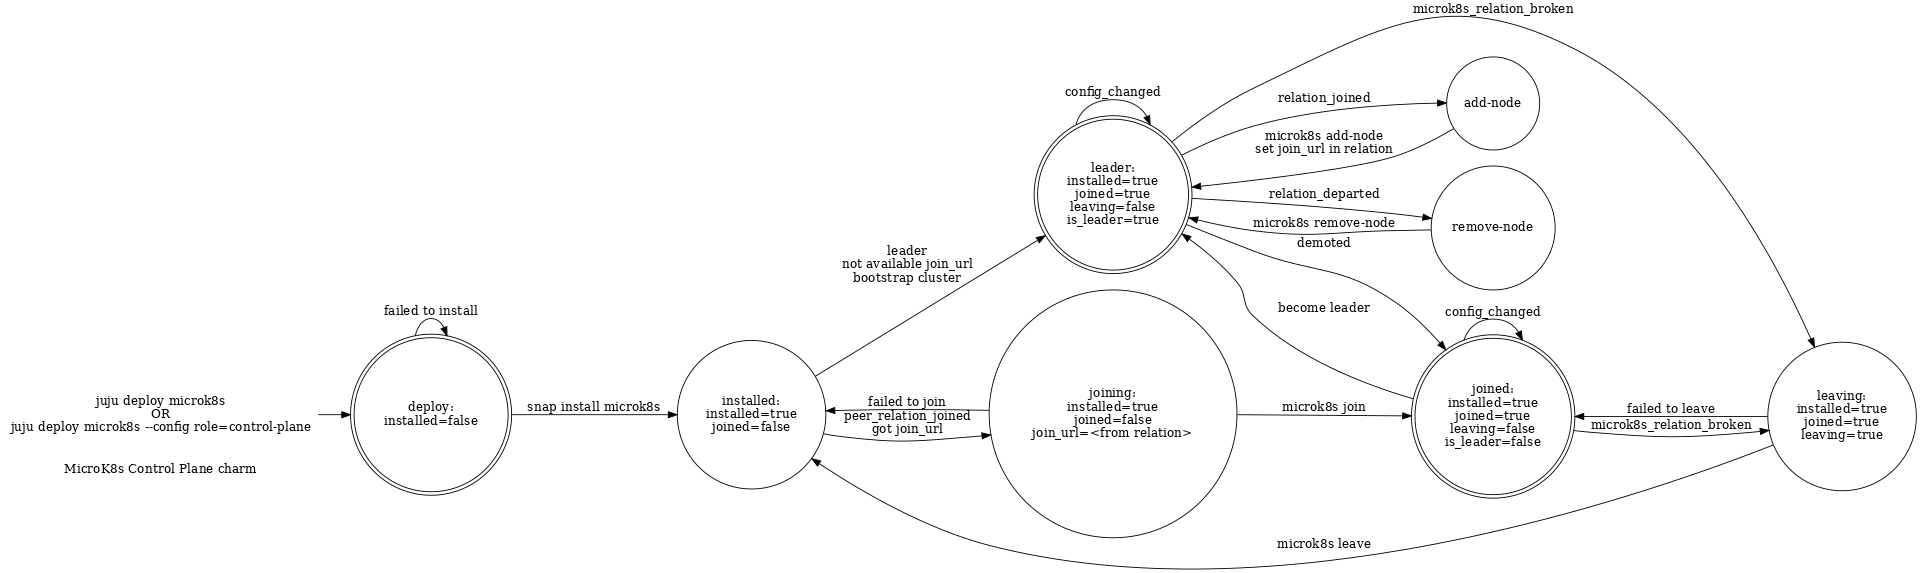
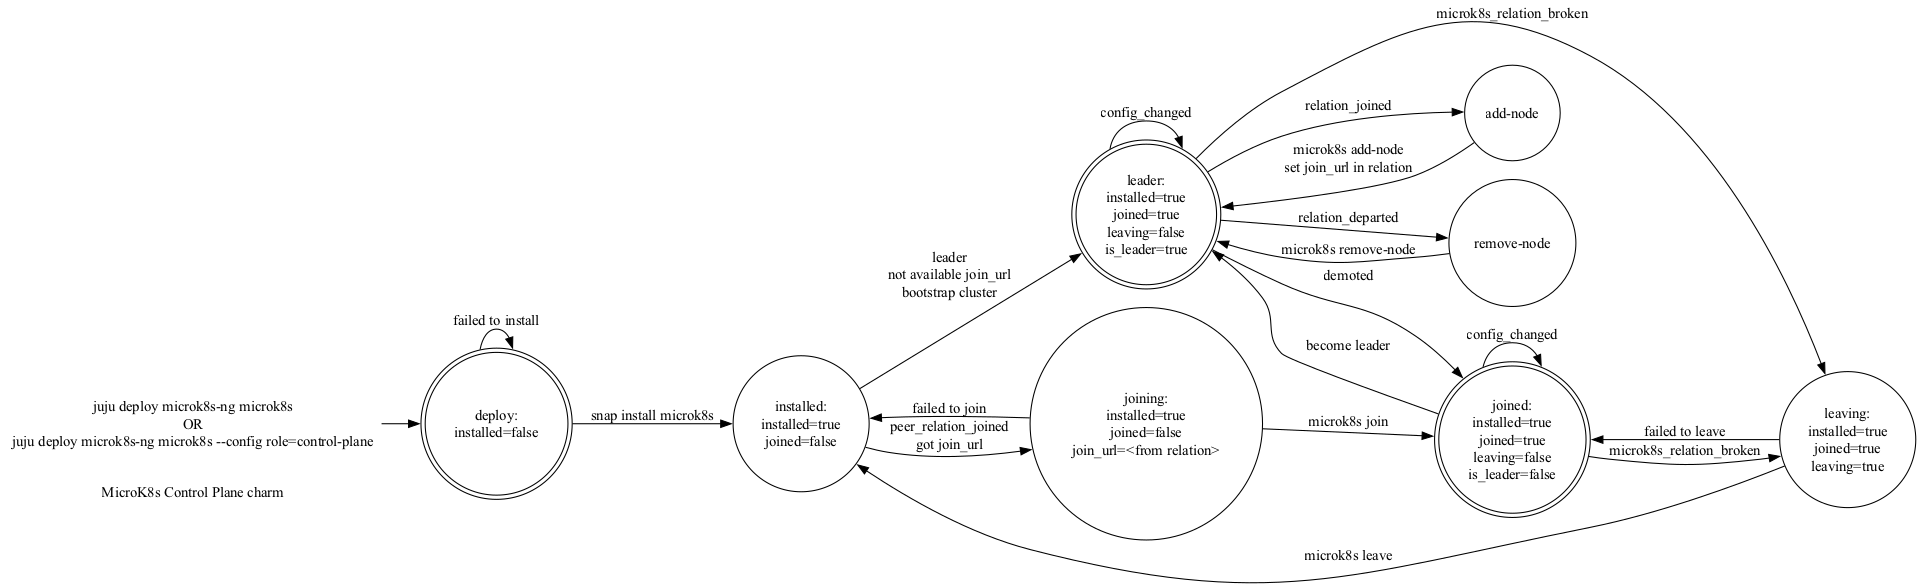
Rename charm

diff --git a/docs/fsm/graphs.py b/docs/fsm/graphs.py
@@ -15,7 +15,10 @@ cp.attr(rankdir="LR", size="20,30")
 
 cp.attr("node", shape="none")
 cp.node("text1", "MicroK8s Control Plane charm")
-cp.node("", "juju deploy microk8s\nOR\njuju deploy microk8s --config role=control-plane")
+cp.node(
+    "",
+    "juju deploy microk8s-ng microk8s\nOR\njuju deploy microk8s-ng microk8s --config role=control-plane",
+)
 
 cp.attr("node", shape="doublecircle")
 cp.node("deploy", "deploy:\ninstalled=false")
@@ -66,7 +69,7 @@ w.attr(rankdir="LR", size="20,30")
 
 w.attr("node", shape="none")
 w.node("text1", "MicroK8s Worker charm")
-w.node("", "juju deploy microk8s --config role=worker")
+w.node("", "juju deploy microk8s-ng microk8s-worker --config role=worker")
 
 w.attr("node", shape="doublecircle")
 w.node("deploy", "deploy:\ninstalled=false")

diff --git a/tests/integration/config.py b/tests/integration/config.py
@@ -5,13 +5,13 @@ import json
 import os
 
 # MK8S_CHARM is the charm to deploy. Supported values:
-#   - 'ch:microk8s'             <-- install charm 'microk8s' from CharmHub
-#   - './microk8s.charm'        <-- install from local path
+#   - 'ch:microk8s-ng'          <-- install charm 'microk8s-ng' from CharmHub
+#   - './microk8s-ng.charm'     <-- install from local path
 #   - 'build'                   <-- build charm while testing
 MK8S_CHARM = os.getenv("MK8S_CHARM", "build")
 
 # MK8S_CHARM_CHANNEL is the CharmHub channel to install from.
-#   - 'edge'                    <-- identical to 'juju deploy microk8s --channel edge'
+#   - 'edge'                    <-- identical to 'juju deploy microk8s-ng --channel edge'
 #   - ''                        <-- when installing from local charm, set to empty
 MK8S_CHARM_CHANNEL = os.getenv("MK8S_CHARM_CHANNEL", "")
 

diff --git a/tests/unit/test_charm.py b/tests/unit/test_charm.py
@@ -321,7 +321,7 @@ def test_relation_kubernetes_info(e: Environment, role: str, is_leader: bool, ha
     rel_id = e.harness.add_relation("kubernetes-info", "ceph-csi")
     e.harness.add_relation_unit(rel_id, "ceph-csi/0")
 
-    rel_data = e.harness.get_relation_data(rel_id, "microk8s")
+    rel_data = e.harness.get_relation_data(rel_id, e.harness.charm.app.name)
 
     # the leader control plane node sets relation data
     if role != "worker" and is_leader:

diff --git a/README.md b/README.md
@@ -1,4 +1,4 @@
-# Anti-deprecation notice
+# Continued support notice
 
 This charm is a fork of the original charm-microk8s repo and publishes under the charm name ```microk8s-ng```. The objective of this fork is add supported versions of microk8s to it to act as a medium-term bridge for people/orgs who have not migrated to the newer ```k8s``` charm.
 
@@ -24,11 +24,11 @@ This charm deploys and manages a MicroK8s cluster. It can handle scaling up and 
 Make sure to account for extra requirements depending on the workload you are planning to deploy.
 
 ```bash
-juju deploy microk8s --constraints 'cores=2 mem=4G'
+juju deploy microk8s-ng --constraints 'cores=2 mem=4G'
 ```
 
 Alternatively, to specify the MicroK8s version to install, you can use:
 
 ```bash
-juju deploy microk8s --constraints 'cores=2 mem=4G' --config channel=1.35/stable
+juju deploy microk8s-ng --constraints 'cores=2 mem=4G' --config channel=1.35/stable
 ```

diff --git a/docs/architecture.md b/docs/architecture.md
@@ -4,8 +4,8 @@
 
 ```bash
 # deploy 3 control plane nodes, 3 worker nodes
-juju deploy microk8s -n 3
-juju deploy microk8s microk8s-worker -n 3 --config role=worker
+juju deploy microk8s-ng microk8s -n 3
+juju deploy microk8s-ng microk8s-worker -n 3 --config role=worker
 
 # connect worker nodes to the control plane
 juju integrate microk8s:microk8s-provides microk8s-worker:microk8s

diff --git a/docs/development.md b/docs/development.md
@@ -33,11 +33,11 @@ The default configuration for the integration tests is to build the charm and ru
 When making local changes and deploying the charm:
 
 ```bash
-# build the charm (microk8s_ubuntu-22.04-amd64_ubuntu-24.04-amd64_ubuntu-26.04-amd64.charm)
+# build the charm (microk8s-ng_ubuntu-22.04-amd64_ubuntu-24.04-amd64_ubuntu-26.04-amd64.charm)
 sudo charmcraft pack --destructive-mode
 
 # refresh the application 'application' from the local charm file
-juju refresh microk8s --path ./microk8s*.charm
+juju refresh microk8s --path ./microk8s-ng*.charm
 ```
 
 Note that blocked units will not be refreshed automatically, you will have to do one of the following:

diff --git a/docs/publishing-microk8s-ng.md b/docs/publishing-microk8s-ng.md
@@ -3,8 +3,8 @@
 The `Publish microk8s-ng charm` GitHub Actions workflow builds this charm with
 the Charmhub package name `microk8s-ng` and publishes it to `latest/edge`.
 
-The committed `metadata.yaml` remains named `microk8s`. The workflow changes
-the name only inside the GitHub Actions checkout before packing the charm.
+The committed `metadata.yaml` uses the `microk8s-ng` package name. The workflow
+verifies that name before packing the charm.
 
 ## Charmhub setup
 

diff --git a/docs/observability.md b/docs/observability.md
@@ -9,7 +9,7 @@ This section describes how to deploy a single-node MicroK8s cluster with COS, an
 ```bash
 # Add a machine model and deploy MicroK8s
 juju add-model microk8s
-juju deploy microk8s --channel edge --config hostpath_storage=true --constraints 'mem=8G'
+juju deploy microk8s-ng microk8s --channel edge --config hostpath_storage=true --constraints 'mem=8G'
 juju expose microk8s
 
 # Add MicroK8s as Kubernetes cloud to Juju